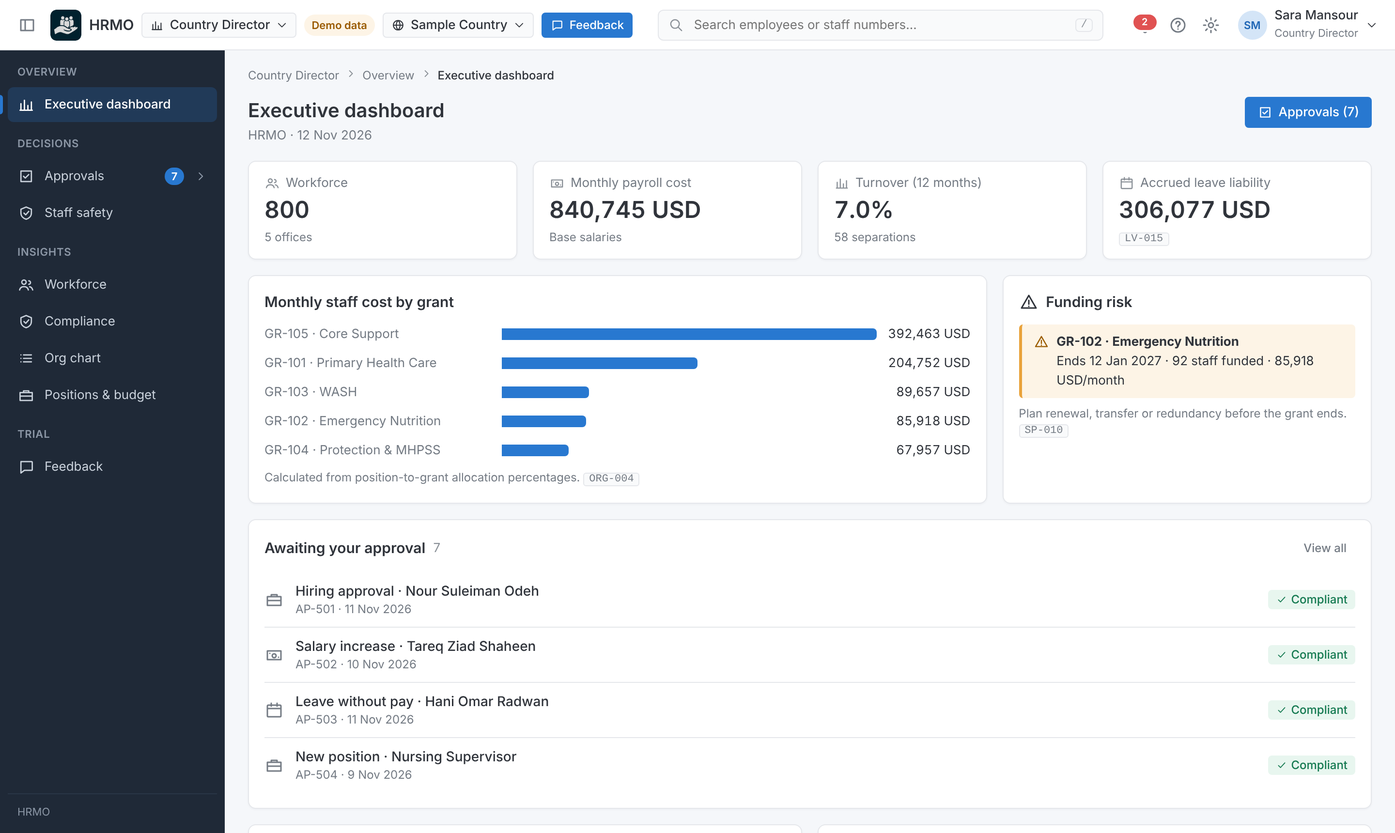
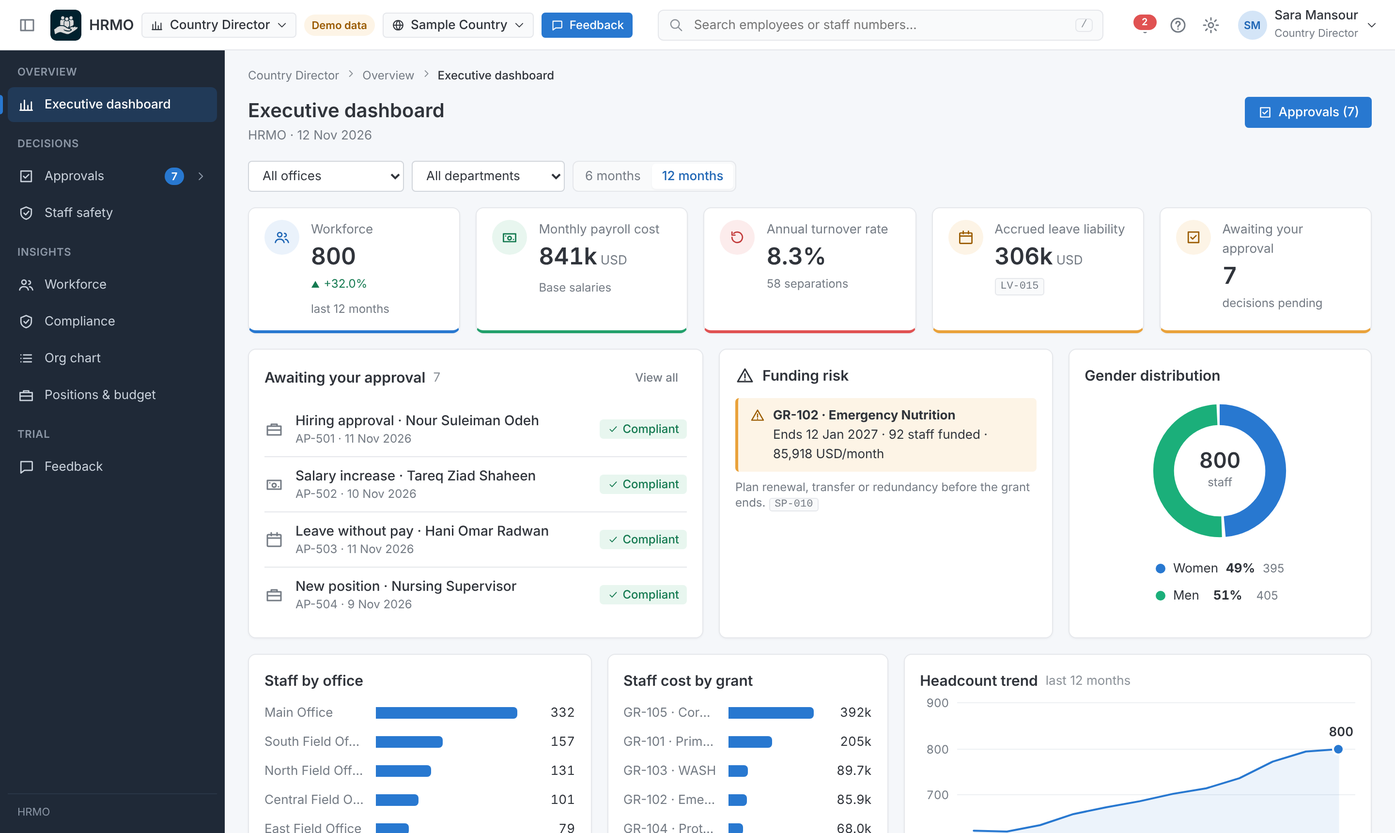
Analytics dashboards for the employee, line manager and country director
- Employee home: leave available, hours this month, pending requests, objectives and
  mandatory training; tasks first, then objectives, leave balance, leave by type,
  latest rating and monthly hours
- Line manager: approvals waiting, presence today, lowest cover in two weeks, leave
  balances and contracts ending; team cover over the next working days, approvals by
  type, team today, highest leave balances, average rating
- Country director: workforce, payroll cost, turnover, leave liability and decisions
  pending; approvals and funding risk first, then gender, offices, cost by grant and
  headcount trend, with the same office, department and period filters as HR
- Chart helpers shared across workspaces; third chart colour validated for
  colour-vision deficiency in light and dark

Claude-Session: https://claude.ai/code/session_01Ak2Py28yani1Do5WRRv8zp

diff --git a/demo/assets/app.js b/demo/assets/app.js
@@ -432,6 +432,45 @@
   }
   function lastWorkingDayOfMonth() { let d = new Date(TODAY.getFullYear(), TODAY.getMonth() + 1, 0); while (!isWorkDay(d)) d = addDays(d, -1); return d; }
 
+
+  // ---------- Employee analytics (home) ----------
+  const RATING_SCORE = { OUTSTANDING: 5, VERY_GOOD: 4, SATISFACTORY: 3, NEEDS_IMPROVEMENT: 2, UNSATISFACTORY: 1 };
+  function empAnalytics(e, b, pend, ts, tasks) {
+    const base = TODAY; const seed = Number(e.id.slice(1));
+    // Hours per month: working days of the month minus leave, plus a little overtime. Current month is to date.
+    const hours = [];
+    // The chart shows complete months only, so the month in progress does not look like a drop.
+    for (let i = 6; i >= 1; i--) {
+      const first = new Date(base.getFullYear(), base.getMonth() - i, 1); const last = new Date(base.getFullYear(), base.getMonth() - i + 1, 0);
+      const off = (seed + i * 5) % 4; const extra = (seed * 3 + i * 7) % 7;
+      hours.push({ label: new Intl.DateTimeFormat(locale(), { month: 'short' }).format(first), full: new Intl.DateTimeFormat(locale(), { month: 'long', year: 'numeric' }).format(first), value: Math.max(0, (workingDays(iso(first), iso(last)) - off) * D.POLICY.workWeek.hoursPerDay + extra) });
+    }
+    const hoursNow = workingDays(iso(new Date(base.getFullYear(), base.getMonth(), 1)), iso(base)) * D.POLICY.workWeek.hoursPerDay;
+    const objs = (EXT.state.objectives || []).filter((o) => o.empId === e.id);
+    const objAvg = objs.length ? objs.reduce((t, o) => t + o.progress, 0) / objs.length : 0;
+    const trDone = D.TRAININGS.filter((t) => e.trainingsDone.includes(t.code)).length;
+    const leaveByType = [{ label: T(LEAVE.ANNUAL), value: b.annual.taken }, { label: T(LEAVE.SICK), value: Math.max(0, b.sick.taken) }, { label: T(LEAVE.UNPAID), value: b.unpaid.used }, { label: T(LEAVE.COMP), value: Math.max(0, e.leave.compDays - b.comp.available) }];
+    const days = (v) => `${fmtN(v, v % 1 ? 1 : 0)} ${L('يوم', 'd')}`;
+    const tsLabel = ts.status === 'DRAFT' ? L('كشف الدوام لم يسلم بعد', 'Timesheet not submitted yet') : ts.status === 'SUBMITTED' ? L('كشف الدوام بانتظار المدير', 'Timesheet awaiting manager') : L('كشف الدوام معتمد', 'Timesheet approved');
+    return `<div class="kgrid">
+        ${kpiCard('t-blue', 'cal', L('الإجازة السنوية المتاحة', 'Annual leave available'), `${fmtN(b.annual.available, 1)}<small> ${esc(L('يوم', 'days'))}</small>`, delta(null, '', true, L(`من ${fmtN(b.annual.accrued, 1)} مستحقة هذا العام`, `of ${fmtN(b.annual.accrued, 1)} accrued this year`)))}
+        ${kpiCard('t-teal', 'clock', L('ساعات العمل هذا الشهر', 'Hours worked this month'), `${fmtN(hoursNow)}<small> ${esc(L('ساعة', 'h'))}</small>`, delta(null, '', true, tsLabel))}
+        ${kpiCard('t-amber', 'approve', L('طلبات قيد الموافقة', 'Requests pending'), fmtN(pend.length), delta(null, '', true, pend.length ? T(LSTATUS[pend[0].status]) : L('لا يوجد', 'None')))}
+        ${kpiCard('t-blue', 'flag', L('تقدم أهدافي', 'My objectives progress'), `${fmtN(objAvg, 0)}%`, delta(null, '', true, L(`${objs.length} أهداف هذا العام`, `${objs.length} objectives this year`)))}
+        ${kpiCard(trDone === D.TRAININGS.length ? 't-teal' : 't-red', 'shield', L('التدريب الإلزامي', 'Mandatory training'), `${fmtN(trDone)}<small> / ${fmtN(D.TRAININGS.length)}</small>`, delta(null, '', true, trDone === D.TRAININGS.length ? L('مكتمل', 'Complete') : (D.TRAININGS.length - trDone === 1 ? L('دورة واحدة متبقية', '1 course left') : L(`${D.TRAININGS.length - trDone} دورات متبقية`, `${D.TRAININGS.length - trDone} courses left`))))}
+      </div>
+      <div class="dgrid dg-a">
+        <section class="card"><h2>${esc(L('مهامي', 'My tasks'))} <span class="count">${tasks.length}</span></h2>
+          <div class="list">${tasks.map((t) => `<div class="list-item">${icon(t.ic)}<div class="grow"><div class="t">${esc(t.t)}</div><div class="subtle">${esc(t.s)}</div></div>${rule(t.r)}${t.act ? `<button class="btn sm" data-act="${t.act}" data-v="${t.v}">${esc(L('فتح', 'Open'))}</button>` : ''}</div>`).join('')}</div></section>
+        <section class="card"><h2>${esc(L('أهدافي', 'My objectives'))}</h2>${objs.length ? bars(objs.map((o) => ({ label: T(o), value: o.progress, tip: L(`الموعد ${fmtD(o.due)}`, `Due ${fmtD(o.due)}`) })), { title: L('تقدم أهدافي', 'My objectives progress'), fmt: (v) => `${fmtN(v)}%` }) : `<div class="empty">${esc(L('لا أهداف مسجلة', 'No objectives yet'))}</div>`}</section>
+        <section class="card"><h2>${esc(L('رصيد الإجازة السنوية', 'Annual leave balance'))}</h2>${donutChart([{ label: L('متاح', 'Available'), value: Math.max(0, b.annual.available) }, { label: L('قيد الموافقة', 'Pending'), value: b.annual.pending }, { label: L('مأخوذ', 'Taken'), value: b.annual.taken }], fmtN(Math.max(0, b.annual.available), 1), L('يوم متاح', 'days left'), L('رصيد الإجازة السنوية', 'Annual leave balance'))}</section>
+      </div>
+      <div class="dgrid dg-b">
+        <section class="card"><h2>${esc(L('إجازاتي هذا العام حسب النوع', 'My leave this year by type'))}</h2>${bars(leaveByType, { title: L('إجازاتي حسب النوع', 'My leave by type'), fmt: days })}</section>
+        <section class="card"><h2>${esc(L('آخر تقييم أداء', 'Latest performance rating'))}</h2>${gaugeChart(RATING_SCORE[e.rating] || 3, 5, badge('b-info', T(RATING[e.rating])), L('آخر تقييم أداء', 'Latest performance rating'))}</section>
+        <section class="card"><h2>${esc(L('ساعات عملي الشهرية', 'My monthly working hours'))} <span class="count">${esc(L('آخر 6 أشهر مكتملة', 'last 6 complete months'))}</span></h2>${lineChart(hours, L('ساعات عملي الشهرية', 'My monthly working hours'))}</section>
+      </div>`;
+  }
   function vEmpHome() {
     const e = me(); const b = balances(e); const mgr = empById.get(e.managerId);
     const pend = myRequests().filter((r) => r.status.startsWith('PENDING'));
@@ -446,23 +485,15 @@
       <div class="page-head"><div><h1>${esc(L(`مرحباً ${e.name.ar.split(' ')[0]}`, `Welcome, ${e.name.en.split(' ')[0]}`))}</h1><p>${esc(`${T(e.position)} · ${T(e.deptName)} · ${officeName(e.office)}`)}</p></div>
         <div class="btn-row"><button class="btn primary" data-act="nav" data-v="leave">${icon('cal', 16)}${esc(L('طلب إجازة', 'Request leave'))}</button></div></div>
       ${EXT.homeBanners.map((fn) => fn()).join('')}
-      <div class="grid g-4 keep2">
-        ${tile(L('الإجازة السنوية المتاحة', 'Annual leave available'), `${fmtN(b.annual.available, 2)}`, L(`من ${fmtN(b.annual.accrued, 2)} مستحقة هذا العام`, `of ${fmtN(b.annual.accrued, 2)} accrued this year`), 'nav-leave', 'cal')}
-        ${tile(L('المرضية براتب كامل', 'Sick leave (full pay)'), fmtN(b.sick.full), L(`+ ${b.sick.half} بنصف راتب`, `+ ${b.sick.half} at half pay`), 'nav-leave', 'cal')}
-        ${tile(L('الرصيد التعويضي', 'Compensatory balance'), fmtN(b.comp.available), L('يسقط بعد 10 أيام', 'Expires after 10 days'), 'nav-leave', 'clock')}
-        ${tile(L('طلبات قيد الموافقة', 'Requests pending'), fmtN(pend.length), pend.length ? T(LSTATUS[pend[0].status]) : L('لا يوجد', 'None'), 'nav-leave', 'approve')}
-      </div>
+      ${empAnalytics(e, b, pend, ts, tasks)}
       <div class="grid g-21">
-        <section class="card"><h2>${esc(L('مهامي', 'My tasks'))} <span class="count">${tasks.length}</span></h2>
-          <div class="list">${tasks.map((t) => `<div class="list-item">${icon(t.ic)}<div class="grow"><div class="t">${esc(t.t)}</div><div class="subtle">${esc(t.s)}</div></div>${rule(t.r)}${t.act ? `<button class="btn sm" data-act="${t.act}" data-v="${t.v}">${esc(L('فتح', 'Open'))}</button>` : ''}</div>`).join('')}</div>
-        </section>
+        <section class="card"><div class="card-head"><h2>${esc(L('آخر طلباتي', 'My recent requests'))}</h2><button class="btn subtle sm" data-act="nav" data-v="leave">${esc(L('عرض الكل', 'View all'))}</button></div>${reqTable(myRequests().slice(0, 4), false)}</section>
         <section class="card"><h2>${esc(L('مديري المباشر', 'My line manager'))}</h2>
           <div class="list-item" style="border:0">${avatar(mgr)}<div class="grow"><div class="t">${esc(T(mgr.name))}</div><div class="subtle">${esc(T(mgr.position))}</div></div><button class="iconbtn" data-act="decor" title="${esc(L('دردشة', 'Chat'))}">${icon('chat')}</button></div>
           <h2 style="margin-top:12px">${esc(L('العطل القادمة', 'Upcoming holidays'))}</h2>
           <div class="list">${upcoming.map((h) => `<div class="list-item">${icon('cal')}<div class="grow"><div class="t">${esc(T(h))}</div><div class="subtle">${esc(fmtD(h.date))}</div></div></div>`).join('') || `<div class="empty">—</div>`}</div>
         </section>
-      </div>
-      <section class="card"><div class="card-head"><h2>${esc(L('آخر طلباتي', 'My recent requests'))}</h2><button class="btn subtle sm" data-act="nav" data-v="leave">${esc(L('عرض الكل', 'View all'))}</button></div>${reqTable(myRequests().slice(0, 4), false)}</section>`;
+      </div>`;
   }
 
   function reqTable(list, showEmp, actions) {
@@ -684,15 +715,19 @@
     return `<div class="gauge" role="img" aria-label="${esc(`${title}: ${fmtN(value, 1)} / ${max}`)}"><svg viewBox="0 0 200 112" width="220" height="123" style="direction:ltr"><path class="gg-track" d="${arc}"/><path class="gg-value" d="${arc}" stroke-dasharray="${len.toFixed(1)} ${C.toFixed(1)}"/></svg>
       <div class="gg-center"><b>${fmtN(value, 1)}</b><span>${esc(L(`من ${max}`, `out of ${max}`))}</span></div><div class="gg-scale"><span>1</span><span>${max}</span></div></div><div class="gg-delta">${deltaHTML}</div>`;
   }
-  function hrAnalytics() {
-    const f = S.dash; const a = hrAnalyticsData(); const names = {}; D.employees.forEach((e) => { names[e.dept] = e.deptName; });
-    const period = L(`آخر ${f.months} شهرا`, `last ${f.months} months`);
-    const pct = (v) => `${fmtN(v, 1)}%`;
-    const filters = `<div class="dash-filters">
+  function dashFilters() {
+    const f = S.dash; const names = {}; D.employees.forEach((e) => { names[e.dept] = e.deptName; });
+    return `<div class="dash-filters">
         <select class="select" data-dash="office" aria-label="${esc(L('المكتب', 'Office'))}"><option value="">${esc(L('كل المكاتب', 'All offices'))}</option>${D.OFFICES.map((o) => `<option value="${o.id}" ${f.office === o.id ? 'selected' : ''}>${esc(T(o))}</option>`).join('')}</select>
         <select class="select" data-dash="dept" aria-label="${esc(L('القسم', 'Department'))}"><option value="">${esc(L('كل الأقسام', 'All departments'))}</option>${Object.keys(names).map((k) => `<option value="${k}" ${f.dept === k ? 'selected' : ''}>${esc(T(names[k]))}</option>`).join('')}</select>
         <div class="seg" role="group" aria-label="${esc(L('الفترة', 'Period'))}">${[6, 12].map((m) => `<button data-act="dash-months" data-v="${m}" aria-pressed="${f.months === m}">${esc(L(`${m} شهرا`, `${m} months`))}</button>`).join('')}</div>
         ${f.office || f.dept ? `<button class="btn subtle sm" data-act="dash-reset">${icon('reset', 14)}${esc(L('إزالة التصفية', 'Clear filters'))}</button>` : ''}</div>`;
+  }
+  function hrAnalytics() {
+    const f = S.dash; const a = hrAnalyticsData(); const names = {}; D.employees.forEach((e) => { names[e.dept] = e.deptName; });
+    const period = L(`آخر ${f.months} شهرا`, `last ${f.months} months`);
+    const pct = (v) => `${fmtN(v, 1)}%`;
+    const filters = dashFilters();
     if (!a.now) return `${filters}<section class="card">${emptyState('people', L('لا موظفين بهذه التصفية', 'No staff match these filters'), L('غيّر المكتب أو القسم.', 'Change the office or the department.'))}</section>`;
     return `${filters}
       <div class="kgrid">
@@ -959,30 +994,40 @@
     return m;
   }
   function vCdDash() {
-    const n = active().length;
-    const payroll = active().reduce((s, e) => s + e.baseSalary, 0);
-    const pend = D.approvals.filter((a) => a.status === 'PENDING').length;
-    const turnover = (D.separations.length / ((n + n + D.separations.length) / 2)) * 100;
-    const liability = active().filter((e) => e.category === 'REGULAR').reduce((s, e) => s + Math.max(0, balances(e).annual.available) * (e.baseSalary / D.POLICY.workingDaysPerMonth), 0);
-    const cg = costByGrant();
-    const grantBars = D.GRANTS.map((g) => ({ label: `${g.id} · ${T(g)}`, value: cg[g.id].cost, tip: L(`${fmtN(cg[g.id].staff, 1)} موظف (مكافئ دوام كامل)`, `${fmtN(cg[g.id].staff, 1)} FTE`) })).sort((a, b) => b.value - a.value);
-    const risk = D.GRANTS.filter((g) => daysBetween(D.todayISO, g.end) <= 120).map((g) => ({ g, staff: active().filter((e) => e.alloc.some((a) => a.grant === g.id)), cost: cg[g.id].cost }));
-    return `
-      <div class="page-head"><div><h1>${esc(L('اللوحة التنفيذية', 'Executive dashboard'))}</h1><p>${esc(`${T(D.ORG)} · ${fmtD(D.todayISO)}`)}</p></div><button class="btn primary" data-act="nav" data-v="approvals">${icon('approve', 16)}${esc(L(`الموافقات (${pend})`, `Approvals (${pend})`))}</button></div>
-      <div class="grid g-4 keep2">
-        ${tile(L('القوى العاملة', 'Workforce'), fmtN(n), L(`${D.OFFICES.length} مكاتب`, `${D.OFFICES.length} offices`), 'nav-workforce', 'people')}
-        ${tile(L('كلفة الرواتب الشهرية', 'Monthly payroll cost'), money(payroll), L('الرواتب الأساسية', 'Base salaries'), null, 'money')}
-        ${tile(L('معدل الدوران (12 شهراً)', 'Turnover (12 months)'), `${fmtN(turnover, 1)}%`, L(`${D.separations.length} حالة انفصال`, `${D.separations.length} separations`), null, 'chart')}
-        ${tile(L('التزام الإجازات المستحقة', 'Accrued leave liability'), money(liability), rule('LV-015'), null, 'cal')}
+    const a = hrAnalyticsData(); const f = S.dash; const emps = a.emps;
+    const payroll = emps.reduce((t, e) => t + e.baseSalary, 0);
+    const pendList = D.approvals.filter((x) => x.status === 'PENDING'); const pend = pendList.length;
+    const liability = emps.filter((e) => e.category === 'REGULAR').reduce((t, e) => t + Math.max(0, balances(e).annual.available) * (e.baseSalary / D.POLICY.workingDaysPerMonth), 0);
+    const cg = {}; D.GRANTS.forEach((g) => { cg[g.id] = { cost: 0, staff: 0 }; });
+    emps.forEach((e) => e.alloc.forEach((x) => { cg[x.grant].cost += (e.baseSalary * x.pct) / 100; cg[x.grant].staff += x.pct / 100; }));
+    const grantBars = D.GRANTS.map((g) => ({ label: `${g.id} · ${T(g)}`, value: cg[g.id].cost, tip: L(`${fmtN(cg[g.id].staff, 1)} موظف (مكافئ دوام كامل)`, `${fmtN(cg[g.id].staff, 1)} FTE`) })).filter((x) => x.value > 0).sort((x, y) => y.value - x.value);
+    const risk = D.GRANTS.filter((g) => daysBetween(D.todayISO, g.end) <= 120).map((g) => ({ g, staff: emps.filter((e) => e.alloc.some((x) => x.grant === g.id)), cost: cg[g.id].cost })).filter((r) => r.staff.length);
+    const byOffice = D.OFFICES.map((o) => ({ label: T(o), value: emps.filter((e) => e.office === o.id).length })).filter((x) => x.value).sort((x, y) => y.value - x.value);
+    const period = L(`آخر ${f.months} شهرا`, `last ${f.months} months`);
+    const k = (v) => (v >= 1000 ? `${fmtN(v / 1000, v >= 100000 ? 0 : 1)}${L(' ألف', 'k')}` : fmtN(v));
+    const head = `<div class="page-head"><div><h1>${esc(L('اللوحة التنفيذية', 'Executive dashboard'))}</h1><p>${esc(`${T(D.ORG)} · ${fmtD(D.todayISO)}`)}</p></div><button class="btn primary" data-act="nav" data-v="approvals">${icon('approve', 16)}${esc(L(`الموافقات (${pend})`, `Approvals (${pend})`))}</button></div>`;
+    if (!a.now) return `${head}${dashFilters()}<section class="card">${emptyState('people', L('لا موظفين بهذه التصفية', 'No staff match these filters'), L('غيّر المكتب أو القسم.', 'Change the office or the department.'))}</section>`;
+    return `${head}
+      ${dashFilters()}
+      <div class="kgrid">
+        ${kpiCard('t-blue', 'people', L('القوى العاملة', 'Workforce'), fmtN(a.now), delta(a.growth, '%', true, period))}
+        ${kpiCard('t-teal', 'money', L('كلفة الرواتب الشهرية', 'Monthly payroll cost'), `${k(payroll)}<small> ${esc(L('دولار', 'USD'))}</small>`, delta(null, '', true, L('الرواتب الأساسية', 'Base salaries')))}
+        ${kpiCard('t-red', 'reset', L('معدل الدوران السنوي', 'Annual turnover rate'), `${fmtN(a.turnover, 1)}%`, a.turnoverPrev == null ? delta(null, '', false, L(`${a.sepCount} حالة انفصال`, `${a.sepCount} separations`)) : delta(a.turnover - a.turnoverPrev, L(' نقطة', ' pts'), false, L('عن الفترة السابقة', 'vs previous period')))}
+        ${kpiCard('t-amber', 'cal', L('التزام الإجازات المستحقة', 'Accrued leave liability'), `${k(liability)}<small> ${esc(L('دولار', 'USD'))}</small>`, `<span class="kd flat">${rule('LV-015')}</span>`)}
+        ${kpiCard(pend ? 't-amber' : 't-teal', 'approve', L('بانتظار اعتمادك', 'Awaiting your approval'), fmtN(pend), delta(null, '', true, pend ? L('قرارات معلقة', 'decisions pending') : L('لا شيء معلق', 'Nothing pending')))}
       </div>
-      <div class="grid g-21">
-        <section class="card"><h2>${esc(L('كلفة الرواتب الشهرية حسب المنحة', 'Monthly staff cost by grant'))}</h2>${bars(grantBars, { fmt: (v) => money(v), title: L('الكلفة حسب المنحة', 'Cost by grant') })}<p class="subtle" style="margin:10px 0 0">${esc(L('محسوبة من نسب توزيع الوظائف على المنح.', 'Calculated from position-to-grant allocation percentages.'))} ${rule('ORG-004')}</p></section>
+      <div class="dgrid dg-a">
+        <section class="card"><div class="card-head"><h2>${esc(L('بانتظار اعتمادك', 'Awaiting your approval'))} <span class="count">${pend}</span></h2><button class="btn subtle sm" data-act="nav" data-v="approvals">${esc(L('عرض الكل', 'View all'))}</button></div>${apList(pendList.slice(0, 4))}</section>
         <section class="card"><h2>${icon('warn')} ${esc(L('مخاطر التمويل', 'Funding risk'))}</h2>
-          ${risk.length ? risk.map((r) => `<div class="msg warn" style="margin-bottom:8px">${icon('warn', 16)}<div><b>${esc(r.g.id)} · ${esc(T(r.g))}</b><br>${esc(L(`تنتهي ${fmtD(r.g.end)} · ${r.staff.length} موظفاً مموّلون منها · ${money(r.cost)} شهرياً`, `Ends ${fmtD(r.g.end)} · ${r.staff.length} staff funded · ${money(r.cost)}/month`))}</div></div>`).join('') : `<div class="empty">—</div>`}
-          <p class="subtle" style="margin:0">${esc(L('خطط للتجديد أو النقل أو التقليص قبل انتهاء المنحة.', 'Plan renewal, transfer or redundancy before the grant ends.'))} ${rule('SP-010')}</p>
-        </section>
+          ${risk.length ? risk.map((r) => `<div class="msg warn" style="margin-bottom:8px">${icon('warn', 16)}<div><b>${esc(r.g.id)} · ${esc(T(r.g))}</b><br>${esc(L(`تنتهي ${fmtD(r.g.end)} · ${r.staff.length} موظفا ممولون منها · ${money(r.cost)} شهريا`, `Ends ${fmtD(r.g.end)} · ${r.staff.length} staff funded · ${money(r.cost)}/month`))}</div></div>`).join('') : `<div class="empty">${esc(L('لا منح تنتهي خلال 120 يوما', 'No grant ends within 120 days'))}</div>`}
+          <p class="subtle" style="margin:0">${esc(L('خطط للتجديد أو النقل أو التقليص قبل انتهاء المنحة.', 'Plan renewal, transfer or redundancy before the grant ends.'))} ${rule('SP-010')}</p></section>
+        <section class="card"><h2>${esc(L('التوزيع حسب الجنس', 'Gender distribution'))}</h2>${donutChart([{ label: L('نساء', 'Women'), value: a.women }, { label: L('رجال', 'Men'), value: a.men }], fmtN(a.now), L('موظف', 'staff'), L('التوزيع حسب الجنس', 'Gender distribution'))}</section>
       </div>
-      <section class="card"><div class="card-head"><h2>${esc(L('بانتظار اعتمادك', 'Awaiting your approval'))} <span class="count">${pend}</span></h2><button class="btn subtle sm" data-act="nav" data-v="approvals">${esc(L('عرض الكل', 'View all'))}</button></div>${apList(D.approvals.filter((a) => a.status === 'PENDING').slice(0, 4))}</section>
+      <div class="dgrid dg-b">
+        <section class="card"><h2>${esc(f.office ? L('الموظفون حسب القسم', 'Staff by department') : L('الموظفون حسب المكتب', 'Staff by office'))}</h2>${bars(f.office ? a.byDept.slice(0, 7) : byOffice, { title: L('توزيع الموظفين', 'Staff distribution') })}</section>
+        <section class="card"><h2>${esc(L('كلفة الرواتب حسب المنحة', 'Staff cost by grant'))}</h2>${bars(grantBars, { fmt: (v) => k(v), title: L('الكلفة الشهرية حسب المنحة', 'Monthly cost by grant') })}<p class="subtle" style="margin:10px 0 0">${esc(L('شهريا بالدولار، من نسب توزيع الوظائف على المنح.', 'Monthly, in USD, from position-to-grant allocation.'))} ${rule('ORG-004')}</p></section>
+        <section class="card"><h2>${esc(L('تطور عدد الموظفين', 'Headcount trend'))} <span class="count">${esc(period)}</span></h2>${lineChart(a.trend, L('تطور عدد الموظفين', 'Headcount trend'))}</section>
+      </div>
       ${EXT.cdDash.map((fn) => fn()).join('')}`;
   }
 
@@ -1484,7 +1529,8 @@
     badge, rule, avatar, who, tile, msgs, bars, meter, toast, addActivity, emptyState, reqTable, statusBadge, R,
     empById, me, persona, active, balances, validateLeave, serviceDays, serviceMonths, officeName, grant, isWorkDay, workingDays, businessDaysUntil,
     render, save, openOverlay, closeOverlay, setView, drawer, modal, acard, channelPreview, managerDecide, apSubject, roleLabel, flagList,
-    audit, store, addNav, pageHead, table, docModal, getP, setP, openMenu, closeMenu, mItem
+    audit, store, addNav, pageHead, table, docModal, getP, setP, openMenu, closeMenu, mItem,
+    kpiCard, delta, lineChart, donutChart, gaugeChart, hrAnalyticsData, dashFilters
   };
   window.HRMO = HRMO;
   window.__hrmo = { S, D, render, validateLeave, balances, EXT, VIEWS };

diff --git a/demo/assets/modules/manager.js b/demo/assets/modules/manager.js
@@ -52,6 +52,45 @@
     if (!isWorkDay(TODAY)) return badge('b-neutral', L('يوم راحة', 'Day off'));
     return badge('b-ok', L('في العمل', 'At work'), 'check');
   }
+  // ---------- Team analytics (manager dashboard) ----------
+  const RATING_SCORE = { OUTSTANDING: 5, VERY_GOOD: 4, SATISFACTORY: 3, NEEDS_IMPROVEMENT: 2, UNSATISFACTORY: 1 };
+  function teamAnalytics(tm, onLeave, pend, prob, ce) {
+    const { kpiCard, delta, lineChart, donutChart, gaugeChart, bars, fmtDs, locale } = H; const n = tm.length; const ids = new Set(tm.map((e) => e.id));
+    // People available on each of the next working days: the team minus approved and pending leave.
+    const avail = []; let d = TODAY;
+    while (avail.length < 10) {
+      if (isWorkDay(d)) { const day = iso(d); const away = D.leaveRequests.filter((r) => ids.has(r.empId) && ['APPROVED', 'PENDING_MANAGER', 'PENDING_HR', 'PENDING_CD'].includes(r.status) && r.from <= day && r.to >= day).length; avail.push({ label: fmtDs(day), full: fmtD(day), value: n - away }); }
+      d = addDays(d, 1);
+    }
+    const lowest = Math.min(...avail.map((p) => p.value));
+    const reg = tm.filter((e) => e.category === 'REGULAR'); const bal = reg.map((e) => ({ label: T(e.name.short), value: Math.max(0, balances(e).annual.available) })).sort((a, b) => b.value - a.value);
+    const avgBal = bal.length ? bal.reduce((t, x) => t + x.value, 0) / bal.length : 0;
+    const waiting = [
+      { label: L('إجازات', 'Leave'), value: teamLeavePending().length },
+      { label: L('كشوف دوام', 'Timesheets'), value: TS.filter((x) => x.status === 'SUBMITTED').length + myTsPending() },
+      { label: L('عمل إضافي', 'Overtime'), value: OT.filter((x) => x.status === 'PENDING' && empById.get(x.empId).managerId === mgrId()).length },
+      { label: L('سفر وتقييمات', 'Travel and appraisals'), value: EXT.mgrPending.reduce((t, fn) => t + fn(), 0) }
+    ];
+    const rated = tm.filter((e) => RATING_SCORE[e.rating]); const avgRating = rated.length ? rated.reduce((t, e) => t + RATING_SCORE[e.rating], 0) / rated.length : 0;
+    const ending = tm.filter((e) => daysBetween(D.todayISO, e.contractEnd) <= 90 || e.inProbation).sort((a, b) => (a.contractEnd > b.contractEnd ? 1 : -1)).slice(0, 5);
+    return `<div class="kgrid">
+        ${kpiCard(pend ? 't-amber' : 't-teal', 'approve', L('بانتظار موافقتك', 'Awaiting your approval'), fmtN(pend), `<span class="kd flat">${pend ? esc(L('طلبات من فريقك', 'requests from your team')) : esc(L('لا شيء معلق', 'Nothing pending'))} ${rule('MG-002')}</span>`)}
+        ${kpiCard('t-blue', 'people', L('حاضرون اليوم', 'Present today'), `${fmtN(n - onLeave)}<small> / ${fmtN(n)}</small>`, delta(null, '', true, onLeave ? L(`${onLeave} في إجازة`, `${onLeave} on leave`) : L('الفريق كاملا', 'Full team')))}
+        ${kpiCard(lowest < n * 0.7 ? 't-red' : 't-teal', 'cal', L('أقل تغطية خلال أسبوعين', 'Lowest cover in two weeks'), `${fmtN(lowest)}<small> / ${fmtN(n)}</small>`, delta(null, '', true, L('بعد احتساب الإجازات المعتمدة والمعلقة', 'after approved and pending leave')))}
+        ${kpiCard('t-blue', 'clock', L('متوسط رصيد الإجازات', 'Average leave balance'), `${fmtN(avgBal, 1)}<small> ${esc(L('يوم', 'days'))}</small>`, delta(null, '', true, L('إجازة سنوية غير مستخدمة', 'unused annual leave')))}
+        ${kpiCard(prob + ce ? 't-amber' : 't-teal', 'doc', L('تجربة أو عقد ينتهي', 'Probation or contract ending'), `${fmtN(prob)}<small> · </small>${fmtN(ce)}`, `<span class="kd flat">${rule('LC-006')} ${rule('LC-040')}</span>`)}
+      </div>
+      <div class="dgrid dg-a">
+        <section class="card"><h2>${esc(L('تغطية الفريق في أيام العمل القادمة', 'Team cover over the next working days'))}</h2>${lineChart(avail, L('عدد المتاحين من الفريق', 'Team members available'))}</section>
+        <section class="card"><div class="card-head"><h2>${esc(L('ما ينتظر موافقتك', 'What is waiting for you'))}</h2><button class="btn subtle sm" data-act="nav" data-v="approvals">${esc(L('فتح الموافقات', 'Open approvals'))}</button></div>${bars(waiting, { title: L('الطلبات المعلقة حسب النوع', 'Pending requests by type') })}</section>
+        <section class="card"><h2>${esc(L('الفريق اليوم', 'The team today'))}</h2>${donutChart([{ label: L('حاضرون', 'Present'), value: n - onLeave }, { label: L('في إجازة', 'On leave'), value: onLeave }], fmtN(n), L('عضو', 'members'), L('الفريق اليوم', 'The team today'))}</section>
+      </div>
+      <div class="dgrid dg-b">
+        <section class="card"><h2>${esc(L('أعلى أرصدة الإجازات', 'Highest leave balances'))}</h2>${bars(bal.slice(0, 7), { title: L('أرصدة الإجازة السنوية', 'Annual leave balances'), fmt: (v) => fmtN(v, 1) })}<p class="subtle" style="margin:10px 0 0">${esc(L('شجعهم على التخطيط لإجازة.', 'Encourage them to plan leave.'))} ${rule('WB-003')}</p></section>
+        <section class="card"><h2>${esc(L('متوسط تقييم الفريق', 'Average team rating'))}</h2>${gaugeChart(avgRating || 1, 5, `<span class="kd flat">${esc(L(`${rated.length} عضوا مقيما`, `${rated.length} members rated`))}</span>`, L('متوسط تقييم الفريق', 'Average team rating'))}</section>
+        <section class="card"><h2>${esc(L('تجربة أو عقد ينتهي قريبا', 'Probation or contract ending soon'))}</h2>${ending.length ? `<div class="table-wrap"><table class="hires"><thead><tr><th>${esc(L('الاسم', 'Name'))}</th><th>${esc(L('الحالة', 'Status'))}</th><th>${esc(L('نهاية العقد', 'Contract end'))}</th></tr></thead><tbody>${ending.map((e) => `<tr class="clickable" data-act="emp" data-id="${e.id}"><td>${who(e, T(e.position))}</td><td>${e.inProbation ? badge('b-info', L('تجربة', 'Probation')) : badge('b-warn', L('عقد ينتهي', 'Contract ending'))}</td><td class="nowrap"><bdi>${esc(fmtD(e.contractEnd))}</bdi></td></tr>`).join('')}</tbody></table></div>` : `<div class="empty">${esc(L('لا يوجد', 'None'))}</div>`}</section>
+      </div>`;
+  }
   function vTeam() {
     const tm = team(); const m = persona();
     const onLeave = tm.filter((e) => D.leaveRequests.some((x) => x.empId === e.id && x.status === 'APPROVED' && x.from <= D.todayISO && x.to >= D.todayISO)).length;
@@ -61,12 +100,7 @@
     const noLeave = tm.filter((e) => e.category === 'REGULAR' && serviceMonths(e) >= D.POLICY.care.burnoutNoLeaveMonths && balances(e).annual.taken === 0);
     const rows = tm.map((e) => `<tr class="clickable" data-act="emp" data-id="${e.id}"><td>${who(e, T(e.position))}</td><td>${todayStatus(e)}</td><td class="num">${e.category === 'REGULAR' ? fmtN(balances(e).annual.available, 1) : '—'}</td><td class="num">${e.lateMarks}</td><td>${H.flagList(e).map(([c, l]) => badge(c, l)).join(' ') || '<span class="subtle">—</span>'}</td><td class="hide-sm">${esc(fmtD(e.contractEnd))}</td></tr>`);
     return `${pageHead(L('فريقي', 'My team'), esc(L(`${tm.length} موظفاً يتبعونك مباشرة · ${T(m.deptName)}`, `${tm.length} direct reports · ${T(m.deptName)}`)), `<button class="btn" data-act="case-new">${icon('flag', 16)}${esc(L('رفع ملاحظة', 'Raise a concern'))}</button><button class="btn primary" data-act="nav" data-v="approvals">${icon('approve', 16)}${esc(L(`الموافقات (${pend})`, `Approvals (${pend})`))}</button>`)}
-      <div class="grid g-4 keep2">
-        ${kpi(L('أعضاء الفريق', 'Team members'), fmtN(tm.length), L('تبعية مباشرة', 'Direct reports'), 'people', 'orgchart')}
-        ${kpi(L('في إجازة اليوم', 'On leave today'), fmtN(onLeave), L('حسب الإجازات المعتمدة', 'Approved leave'), 'cal', 'calendar')}
-        ${kpi(L('بانتظار موافقتك', 'Awaiting your approval'), fmtN(pend), rule('MG-002'), 'approve', 'approvals')}
-        ${kpi(L('تجربة أو عقد ينتهي', 'Probation / contract ending'), `${fmtN(prob)} · ${fmtN(ce)}`, `${rule('LC-006')} ${rule('LC-040')}`, 'clock')}
-      </div>
+      ${teamAnalytics(tm, onLeave, pend, prob, ce)}
       ${noLeave.length ? `<div class="banner info"><span class="bi">${icon('info', 18)}</span><div class="grow"><b>${esc(L(`${noLeave.length} من فريقك لم يأخذوا أي إجازة سنوية هذا العام`, `${noLeave.length} team member(s) have taken no annual leave this year`))}</b><div class="subtle">${esc(L('الراحة جزء من واجب الرعاية. شجّعهم على التخطيط لإجازة.', 'Rest is part of duty of care. Encourage them to plan leave.'))} ${rule('WB-003')}</div></div><span class="subtle">${noLeave.slice(0, 3).map((e) => esc(T(e.name.short))).join('، ')}</span></div>` : ''}
       <section class="card flush"><div class="table-toolbar"><h2 style="margin:0;font-size:var(--fs-section)">${esc(L('أعضاء الفريق', 'Team members'))}</h2><span class="subtle">${esc(L('الراتب والبيانات الحساسة غير ظاهرة للمدير المباشر', 'Salary and sensitive data are hidden from line managers'))} ${rule('RD-003')}</span></div>
         ${table([L('الموظف', 'Employee'), L('اليوم', 'Today'), L('رصيد سنوي', 'Annual bal.'), L('تأخير', 'Late'), L('تنبيهات', 'Flags'), [L('نهاية العقد', 'Contract end'), 'hide-sm']], rows)}</section>`;

diff --git a/demo/assets/styles.css b/demo/assets/styles.css
@@ -586,8 +586,8 @@ td .who .n { font-weight: var(--fw-medium); color: var(--text); }
 }
 
 /* ---------- 18. Analytics dashboard ---------- */
-:root { --series-1: #2878D0; --series-2: #1BAF7A; --chart-grid: #EDF0F3; }
-:root[data-theme="dark"] { --series-1: #4C97E8; --series-2: #199E70; --chart-grid: #263143; }
+:root { --series-1: #2878D0; --series-2: #1BAF7A; --series-3: #EB6834; --chart-grid: #EDF0F3; }
+:root[data-theme="dark"] { --series-1: #4C97E8; --series-2: #199E70; --series-3: #D95926; --chart-grid: #263143; }
 .dash-filters { display: flex; flex-wrap: wrap; align-items: center; gap: var(--s-2); }
 .dash-filters .select { width: auto; min-width: 150px; }
 .dash-sec { margin: var(--s-2) 0 0; font-size: var(--fs-section); font-weight: var(--fw-semibold); color: var(--text-2); }
@@ -637,6 +637,7 @@ td .who .n { font-weight: var(--fw-medium); color: var(--text); }
 .dn-seg:hover { stroke-width: 23; }
 .dn-seg.s1, .dn-legend i.s1 { stroke: var(--series-1); background: var(--series-1); }
 .dn-seg.s2, .dn-legend i.s2 { stroke: var(--series-2); background: var(--series-2); }
+.dn-seg.s3, .dn-legend i.s3 { stroke: var(--series-3); background: var(--series-3); }
 .dn-center { position: absolute; inset: 0; display: grid; place-content: center; text-align: center; pointer-events: none; }
 .dn-center b { font-size: 22px; line-height: 1.1; font-weight: var(--fw-semibold); font-variant-numeric: tabular-nums; }
 .dn-center span { font-size: var(--fs-caption); color: var(--text-2); }
